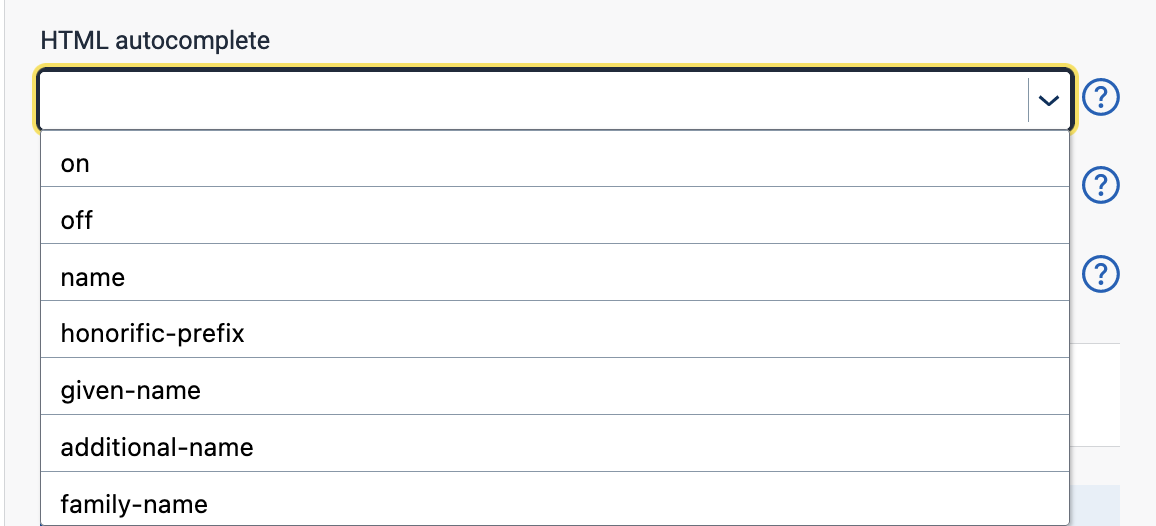
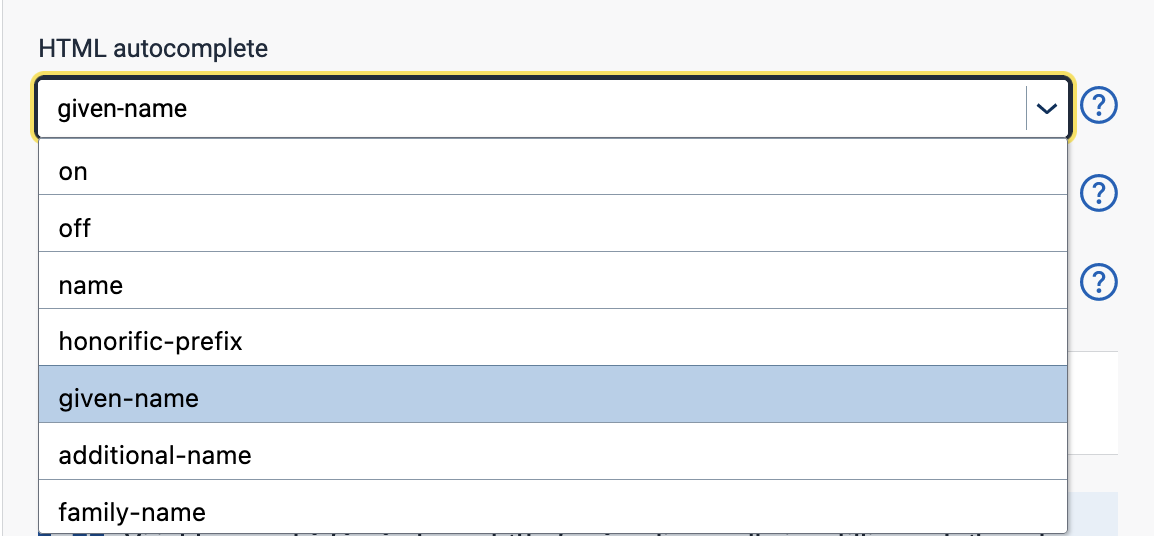
Added content files for autocomplete

diff --git a/content/app/development/ux/components/_common-props-content/autocomplete.nb.md b/content/app/development/ux/components/_common-props-content/autocomplete.nb.md
@@ -1,0 +1,38 @@
+
+# Innhold
+
+<!-- begin intro -->
+### Automatisk fullføring (`autocomplete`)
+Automatisk fullføring (`autocomplete`) lar deg spesifisere om, og i hvilken grad, brukeragenten har tillatelse til å gi automatisert hjelp med utfylling av verdier i skjemafelter, samt gi veiledning til nettleseren om hvilken type informasjon som forventes i feltet.
+<!-- end intro -->
+
+
+<!-- begin asd -->
+
+{{% image file="component-settings/autocomplete.png" %}}
+
+<!-- end asd -->
+
+
+<!-- begin code -->
+
+{{< code-title >}}
+App/ui/layouts/{page}.json
+{{< /code-title >}}
+
+```json{hl_lines="4"}
+{
+  "id": "komponent-id",
+  ...
+  "autocomplete": "given-name"
+  
+}
+```
+
+<!-- end code -->
+
+
+<!-- begin more -->
+
+
+<!-- end more -->

diff --git a/content/app/development/ux/components/_common-props-content/autocomplete.en.md b/content/app/development/ux/components/_common-props-content/autocomplete.en.md
@@ -1,0 +1,39 @@
+
+# Innhold
+
+<!-- begin intro -->
+### Autocomplete (`autocomplete`)
+The HTML `autocomplete` attribute lets you specify what if any permission the user agent has to provide
+ automated assistance in filling out form field values, as well as guidance to the browser as to the type of information expected in the field.
+<!-- end intro -->
+
+
+<!-- begin asd -->
+
+{{% image file="component-settings/autocomplete.png" %}}
+
+<!-- end asd -->
+
+
+<!-- begin code -->
+
+{{< code-title >}}
+App/ui/layouts/{page}.json
+{{< /code-title >}}
+
+```json{hl_lines="4"}
+{
+  "id": "komponent-id",
+  ...
+  "autocomplete": "given-name"
+  
+}
+```
+
+<!-- end code -->
+
+
+<!-- begin more -->
+
+
+<!-- end more -->
